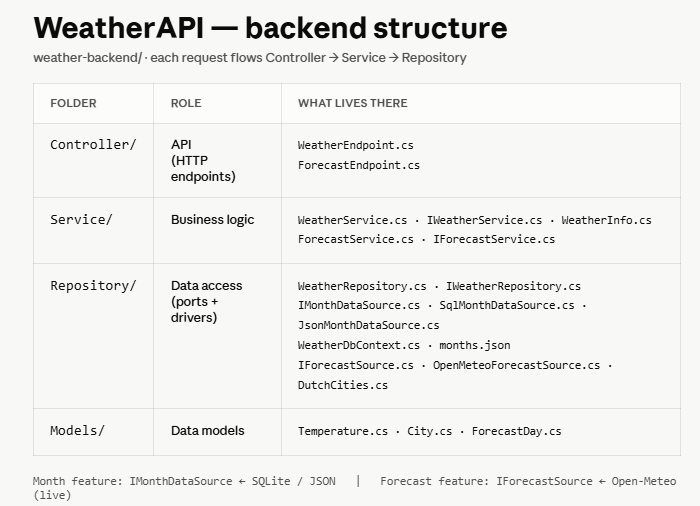
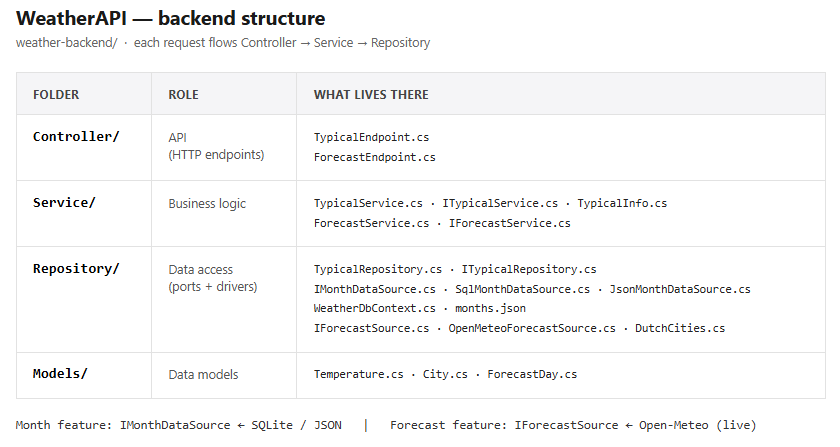
Rename the month feature internals from "weather" to "typical"
"weather" was doing double duty: the name of the whole app and the name of one specific feature,
which made it hard to tell the month feature apart from the forecast feature.
Everything belonging to the month feature is now called "typical", matching the TypicalWeather component that drives it.

Backend:
- WeatherEndpoint -> TypicalEndpoint, and the route /api/weather/temperature -> /api/weather/typical
- IWeatherService/WeatherService -> ITypicalService/TypicalService (GetWeather -> GetTypical)
- IWeatherRepository/WeatherRepository -> ITypicalRepository/TypicalRepository
- WeatherInfo -> TypicalInfo
- Program.cs dependency injection updated to match
- WeatherDbContext and the IMonthDataSource drivers keep their names:
  the database and storage layer are not feature-specific

Frontend:
- WeatherService -> TypicalService, WeatherInfo -> TypicalInfo, getWeather -> getTypical, now calling /api/weather/typical
- store slice key 'weather' -> 'typical', WeatherState -> TypicalState, weatherReducer -> typicalReducer, WeatherEffects -> TypicalEffects
- actions weatherLoaded/weatherFailed -> typicalLoaded/typicalFailed
- selector selectInfo -> selectTypicalInfo

Docs:
- backend_structure.png regenerated with the new file names

Note: the file renames themselves landed in the previous commit, but git mv moves the existing index entry to the new path,
[…]

diff --git a/weather-frontend/src/app/typical.service.ts b/weather-frontend/src/app/typical.service.ts
@@ -2,35 +2,35 @@ import { Injectable } from '@angular/core';
 import { HttpClient } from '@angular/common/http';
 
 // The shape of the data the API returns for a month (matches the backend's
-// WeatherInfo record). Exported so the component can use the same type.
-export interface WeatherInfo {
+// TypicalInfo record). Exported so components can use the same type.
+export interface TypicalInfo {
 	minTemp: number;
 	maxTemp: number;
 	average: number;
 	description: string;
 }
 
-// A service = a reusable class. This one's only job is to call the backend API.
+// A service = a reusable class. This one's only job is to call the backend's
+// typical-weather endpoint.
 //
 // @Injectable({ providedIn: 'root' }) marks the class as a service Angular can
 // hand out, and 'root' means one shared instance for the whole app (a
-// singleton). This is Angular's dependency injection - the same idea as 
+// singleton). This is Angular's dependency injection - the same idea as
 // C# AddScoped registrations.
 @Injectable({ providedIn: 'root' })
-export class WeatherService {
-	private readonly apiUrl = 'http://localhost:5151/api/weather/temperature';
+export class TypicalService {
+	private readonly apiUrl = 'http://localhost:5151/api/weather/typical';
 
 	// The other side of dependency injection: this service RECEIVES HttpClient
 	// through its constructor (Angular supplies it automatically) - exactly like
-	// constructor injection in the C# backend. We switched HttpClient on earlier
-	// with provideHttpClient().
+	// constructor injection in the C# backend.
 	constructor(private http: HttpClient) {}
 
-	// Calls GET /api/weather/temperature?month=<month>.
-	// Returns an Observable of the month's WeatherInfo (range + average +
+	// Calls GET /api/weather/typical?month=<month>.
+	// Returns an Observable of the month's TypicalInfo (range + average +
 	// description). The response arrives later; whoever cares "subscribes" to it.
-	getWeather(month: string) {
-		return this.http.get<WeatherInfo>(this.apiUrl, {
+	getTypical(month: string) {
+		return this.http.get<TypicalInfo>(this.apiUrl, {
 			params: { month },
 		});
 	}

diff --git a/weather-frontend/src/app/store/typical/typical.effects.ts b/weather-frontend/src/app/store/typical/typical.effects.ts
@@ -1,32 +1,32 @@
 import { Injectable, inject } from '@angular/core';
 import { Actions, createEffect, ofType } from '@ngrx/effects';
 import { map, switchMap, catchError, of } from 'rxjs';
-import { WeatherService } from '../../weather.service';
-import { monthSelected, weatherLoaded, weatherFailed } from './weather.actions';
+import { TypicalService } from '../../typical.service';
+import { monthSelected, typicalLoaded, typicalFailed } from './typical.actions';
 
 // An EFFECT listens for actions and does the side-effect work (here: the HTTP
 // call), then dispatches a NEW action with the result. This keeps the impure
 // work out of the reducer.
 @Injectable()
-export class WeatherEffects {
+export class TypicalEffects {
 	// Actions is a stream of EVERY action dispatched to the store.
 	private actions$ = inject(Actions);
-	// Our existing service that calls the backend API.
-	private weather = inject(WeatherService);
+	// Our service that calls the backend's typical-weather endpoint.
+	private typical = inject(TypicalService);
 
-	// When monthSelected is dispatched, call the API and dispatch weatherLoaded
-	// with the result (or weatherFailed if it errors).
-	loadWeather$ = createEffect(() =>
+	// When monthSelected is dispatched, call the API and dispatch typicalLoaded
+	// with the result (or typicalFailed if it errors).
+	loadTypical$ = createEffect(() =>
 		this.actions$.pipe(
 			ofType(monthSelected),                          // only react to monthSelected
 			switchMap(({ month }) =>                        // for each one, call the service
-				this.weather.getWeather(month).pipe(
-					map((info) => weatherLoaded({ info })),     // success -> weatherLoaded action
+				this.typical.getTypical(month).pipe(
+					map((info) => typicalLoaded({ info })),     // success -> typicalLoaded action
 					// catchError sits on the INNER observable (per request), so a failure
 					// ends only this request - the effect keeps listening for future months.
 					// It must return an Observable, so of(...) wraps the failure action.
 					catchError((err) =>
-						of(weatherFailed({ error: err.message ?? 'Could not load the weather' }))
+						of(typicalFailed({ error: err.message ?? 'Could not load the typical weather' }))
 					)
 				)
 			)

diff --git a/weather-frontend/src/app/store/typical/typical.actions.ts b/weather-frontend/src/app/store/typical/typical.actions.ts
@@ -1,25 +1,24 @@
 import { createAction, props } from '@ngrx/store';
-import { WeatherInfo } from '../../weather.service';
+import { TypicalInfo } from '../../typical.service';
 
 // An ACTION is a plain object describing something that happened. createAction
 // takes a unique type string (convention: '[Source] Event') and props()
-// declares the payload it carries. Dispatching monthSelected({ month: 'July' })
-// produces the object { type: '[Weather] Month Selected', month: 'July' }.
+// declares the payload it carries.
 
 // A month was chosen (dispatched by TypicalWeather for the current month).
 export const monthSelected = createAction(
-	'[Weather] Month Selected',
+	'[Typical] Month Selected',
 	props<{ month: string }>()
 );
 
-// The API returned the weather (will be dispatched by the effect, on success).
-export const weatherLoaded = createAction(
-	'[Weather] Weather Loaded',
-	props<{ info: WeatherInfo }>()
+// The API returned the typical weather (dispatched by the effect, on success).
+export const typicalLoaded = createAction(
+	'[Typical] Loaded',
+	props<{ info: TypicalInfo }>()
 );
 
-// The API call failed (will be dispatched by the effect, on error).
-export const weatherFailed = createAction(
-	'[Weather] Weather Failed',
+// The API call failed (dispatched by the effect, on error).
+export const typicalFailed = createAction(
+	'[Typical] Failed',
 	props<{ error: string }>()
 );

diff --git a/weather-frontend/src/app/store/typical/typical.reducer.ts b/weather-frontend/src/app/store/typical/typical.reducer.ts
@@ -1,15 +1,14 @@
 import { createReducer, on } from '@ngrx/store';
-import { initialWeatherState } from './weather.state';
-import { monthSelected, weatherLoaded, weatherFailed } from './weather.actions';
+import { initialTypicalState } from './typical.state';
+import { monthSelected, typicalLoaded, typicalFailed } from './typical.actions';
 
 // The reducer is a PURE function: (current state, action) => new state. It never
 // changes the old state - it returns a NEW object (we spread ...state to copy
-// the old fields, then override the ones that change). createReducer wires each
-// action to how it updates the state.
-export const weatherReducer = createReducer(
-	initialWeatherState,
+// the old fields, then override the ones that change).
+export const typicalReducer = createReducer(
+	initialTypicalState,
 
-	// User picked a month: remember it, turn loading on, clear any old error.
+	// A month is showing: remember it, turn loading on, clear any old error.
 	on(monthSelected, (state, { month }) => ({
 		...state,
 		selectedMonth: month,
@@ -18,14 +17,14 @@ export const weatherReducer = createReducer(
 	})),
 
 	// Data arrived: store it and turn loading off.
-	on(weatherLoaded, (state, { info }) => ({
+	on(typicalLoaded, (state, { info }) => ({
 		...state,
 		info,
 		loading: false,
 	})),
 
 	// Request failed: clear the data, turn loading off, keep the error message.
-	on(weatherFailed, (state, { error }) => ({
+	on(typicalFailed, (state, { error }) => ({
 		...state,
 		info: null,
 		loading: false,

diff --git a/weather-frontend/src/app/store/typical/typical.state.ts b/weather-frontend/src/app/store/typical/typical.state.ts
@@ -1,17 +1,17 @@
-import { WeatherInfo } from '../../weather.service';
+import { TypicalInfo } from '../../typical.service';
 
 // The store's state is one big object split into named sections ("slices").
-// This interface describes our "weather" slice - the weather state the app
-// shares across components.
-export interface WeatherState {
-	selectedMonth: string | null; // which month the user picked
-	info: WeatherInfo | null;     // the loaded weather (null until loaded)
+// This interface describes our "typical" slice - this month's typical weather,
+// shared across components.
+export interface TypicalState {
+	selectedMonth: string | null; // which month is showing
+	info: TypicalInfo | null;     // the loaded typical weather (null until loaded)
 	loading: boolean;             // is a request in flight?
 	error: string | null;         // an error message, if the request failed
 }
 
 // The starting state, before anything has happened.
-export const initialWeatherState: WeatherState = {
+export const initialTypicalState: TypicalState = {
 	selectedMonth: null,
 	info: null,
 	loading: false,

diff --git a/weather-frontend/src/app/app.config.ts b/weather-frontend/src/app/app.config.ts
@@ -3,8 +3,8 @@ import { provideHttpClient } from '@angular/common/http';
 import { provideStore, provideState } from '@ngrx/store';
 import { provideEffects } from '@ngrx/effects';
 import { provideStoreDevtools } from '@ngrx/store-devtools';
-import { weatherReducer } from './store/weather/weather.reducer';
-import { WeatherEffects } from './store/weather/weather.effects';
+import { typicalReducer } from './store/typical/typical.reducer';
+import { TypicalEffects } from './store/typical/typical.effects';
 import { forecastReducer } from './store/forecast/forecast.reducer';
 import { ForecastEffects } from './store/forecast/forecast.effects';
 
@@ -14,9 +14,9 @@ export const appConfig: ApplicationConfig = {
 		provideHttpClient(),
 		// NgRx: set up the store and the effects runner.
 		provideStore(),
-		provideEffects(WeatherEffects, ForecastEffects),
-		// Register the two slices: "weather" (months) and "forecast" (cities).
-		provideState('weather', weatherReducer),
+		provideEffects(TypicalEffects, ForecastEffects),
+		// Register the two slices: "typical" (this month) and "forecast" (cities).
+		provideState('typical', typicalReducer),
 		provideState('forecast', forecastReducer),
 		// Redux DevTools: lets the browser extension show the store + actions.
 		provideStoreDevtools({ maxAge: 25, connectInZone: true, name: 'WeatherApp' }),

diff --git a/weather-frontend/src/app/store/typical/typical.selectors.ts b/weather-frontend/src/app/store/typical/typical.selectors.ts
@@ -1,11 +1,11 @@
 import { createFeatureSelector, createSelector } from '@ngrx/store';
-import { WeatherState } from './weather.state';
+import { TypicalState } from './typical.state';
 
-// Grab the whole "weather" slice from the store. The string 'weather' must match
-// the key we registered with provideState('weather', weatherReducer).
-const selectWeather = createFeatureSelector<WeatherState>('weather');
+// Grab the whole "typical" slice from the store. The string 'typical' must match
+// the key we registered with provideState('typical', typicalReducer).
+const selectTypical = createFeatureSelector<TypicalState>('typical');
 
 // Derived selector: reads one field out of the slice. createSelector memoizes
 // (caches) the result - if the slice hasn't changed, it returns the cached
 // value instead of recomputing. TemperatureDisplay reads this from the store.
-export const selectInfo = createSelector(selectWeather, (state) => state.info);
+export const selectTypicalInfo = createSelector(selectTypical, (state) => state.info);

diff --git a/weather-frontend/src/app/components/temperature-display/temperature-display.ts b/weather-frontend/src/app/components/temperature-display/temperature-display.ts
@@ -1,6 +1,6 @@
 import { Component, inject } from '@angular/core';
 import { Store } from '@ngrx/store';
-import { selectInfo } from '../../store/weather/weather.selectors';
+import { selectTypicalInfo } from '../../store/typical/typical.selectors';
 
 @Component({
   selector: 'app-temperature-display',
@@ -12,5 +12,5 @@ export class TemperatureDisplay {
   // selector into a signal, so the template still reads it as info() and stays
   // reactive - no @Input needed anymore.
   private store = inject(Store);
-  readonly info = this.store.selectSignal(selectInfo);
+  readonly info = this.store.selectSignal(selectTypicalInfo);
 }

diff --git a/weather-frontend/src/app/components/typical-weather/typical-weather.ts b/weather-frontend/src/app/components/typical-weather/typical-weather.ts
@@ -1,6 +1,6 @@
 import { Component, inject, OnInit } from '@angular/core';
 import { Store } from '@ngrx/store';
-import { monthSelected } from '../../store/weather/weather.actions';
+import { monthSelected } from '../../store/typical/typical.actions';
 import { TemperatureDisplay } from '../temperature-display/temperature-display';
 
 @Component({

diff --git a/weather-frontend/src/app/forecast.service.ts b/weather-frontend/src/app/forecast.service.ts
@@ -13,7 +13,7 @@ export interface ForecastDay {
 
 // A second service, the frontend twin of the backend's ForecastService. Its
 // only job is to call the two new backend endpoints. Kept separate from
-// WeatherService (the month feature) so each service has one job - the same
+// TypicalService (the month feature) so each service has one job - the same
 // one-class-one-job split we made on the backend.
 @Injectable({ providedIn: 'root' })
 export class ForecastService {

diff --git a/weather-backend/Controller/TypicalEndpoint.cs b/weather-backend/Controller/TypicalEndpoint.cs
@@ -1,11 +1,11 @@
 // ============================================================================
 // CONTROLLER - API (HTTP endpoint)
 // ============================================================================
-// WeatherEndpoint receives the HTTP request and turns it into a service call.
+// TypicalEndpoint receives the HTTP request and turns it into a service call.
 // Its only job is translation; it holds no business logic. It calls the service
-// through the IWeatherService interface, never the concrete class.
+// through the ITypicalService interface, never the concrete class.
 //
-// Endpoint:  GET /api/weather/temperature?month=January
+// Endpoint:  GET /api/weather/typical?month=January
 //   -> { "minTemp": 1, "maxTemp": 6, "average": 3, "description": "Freezing" }
 using Microsoft.AspNetCore.Mvc;
 using WeatherAPI.Service;
@@ -14,25 +14,25 @@ namespace WeatherAPI.Controller
 {
 	[ApiController]
 	[Route("api/weather")]
-	public class WeatherEndpoint : ControllerBase
+	public class TypicalEndpoint : ControllerBase
 	{
-		// Injected via the IWeatherService interface - the endpoint never
-		// references the concrete WeatherService class.
-		private readonly IWeatherService _service;
+		// Injected via the ITypicalService interface - the endpoint never
+		// references the concrete TypicalService class.
+		private readonly ITypicalService _service;
 
-		public WeatherEndpoint(IWeatherService service)
+		public TypicalEndpoint(ITypicalService service)
 		{
 			_service = service;
 		}
 
-		// Handles: GET /api/weather/temperature?month=January
-		[HttpGet("temperature")]
-		public IActionResult GetTemperature([FromQuery] string month)
+		// Handles: GET /api/weather/typical?month=January
+		[HttpGet("typical")]
+		public IActionResult GetTypical([FromQuery] string month)
 		{
 			if (string.IsNullOrWhiteSpace(month))
 				return BadRequest(new { error = "Provide a month, e.g. ?month=January" });
 
-			WeatherInfo? info = _service.GetWeather(month);
+			TypicalInfo? info = _service.GetTypical(month);
 			if (info is null)
 				return NotFound(new { error = $"Unknown month '{month}'." });
 

diff --git a/weather-backend/Program.cs b/weather-backend/Program.cs
@@ -5,7 +5,7 @@
 // depend only on interfaces; here is where we decide which concrete class
 // implements each one (which service, which repository, which storage driver).
 using Microsoft.EntityFrameworkCore;  // UseSqlite, EnsureCreated
-using WeatherAPI.Service;             // IWeatherService, WeatherService
+using WeatherAPI.Service;             // ITypicalService, TypicalService
 using WeatherAPI.Repository;          // repository, data-source port, drivers, DbContext
 
 
@@ -14,7 +14,7 @@ using WeatherAPI.Repository;          // repository, data-source port, drivers, 
 // response headers).
 WebApplicationBuilder builder = WebApplication.CreateBuilder(args);
 
-// Register the MVC controllers (this is what makes WeatherEndpoint reachable).
+// Register the MVC controllers (this is what makes the endpoints reachable).
 builder.Services.AddControllers();
 
 // CORS: let the Angular dev server (a different origin) call this API. Without
@@ -29,10 +29,10 @@ builder.Services.AddCors(options =>
 });
 
 // --- The actual wiring of the architecture ---------------------------------
-// "When something asks for IWeatherRepository, give it a WeatherRepository."
-// "When something asks for IWeatherService, give it a WeatherService."
+// "When something asks for ITypicalRepository, give it a TypicalRepository."
+// "When something asks for ITypicalService, give it a TypicalService."
 // ASP.NET's container then builds the whole chain for us automatically:
-//   WeatherEndpoint <- IWeatherService <- IWeatherRepository
+//   TypicalEndpoint <- ITypicalService <- ITypicalRepository
 //
 // AddScoped = create one instance per HTTP request (the standard choice for
 // web APIs). The other classes never see these lines; they only ever know
@@ -43,13 +43,13 @@ builder.Services.AddDbContext<WeatherDbContext>(options =>
     options.UseSqlite("Data Source=weather.db"));
 
 // --- THE ONE-LINE DRIVER SWAP ---
-// WeatherRepository depends only on the IMonthDataSource interface. We choose
+// TypicalRepository depends only on the IMonthDataSource interface. We choose
 // which driver fills it here. Comment one line, uncomment the other - nothing
 // else in the app changes.
 // builder.Services.AddScoped<IMonthDataSource, JsonMonthDataSource>();  // file
 builder.Services.AddScoped<IMonthDataSource, SqlMonthDataSource>();        // SQLite
-builder.Services.AddScoped<IWeatherRepository, WeatherRepository>();
-builder.Services.AddScoped<IWeatherService, WeatherService>();
+builder.Services.AddScoped<ITypicalRepository, TypicalRepository>();
+builder.Services.AddScoped<ITypicalService, TypicalService>();
 
 // --- Forecast feature (live Open-Meteo API) ---
 // AddHttpClient wires up an HttpClient for OpenMeteoForecastSource AND registers